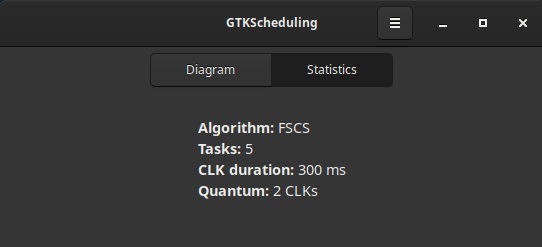
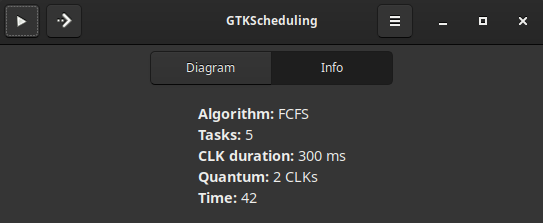
add info to first screen; inital window size based on the number of tasks; change tab name to Info; update imgs

diff --git a/src/window.py b/src/window.py
@@ -38,11 +38,6 @@ class Window(Gtk.Window):
                 self.pixbuf = None
                 print(f'Failed to load icon from "{icon_path}"')
 
-        # Window dimensions
-        self.set_size_request(600, 300)
-        self.set_resizable(True)
-        self.set_border_width(6)
-
         # Vertical Box
         outerbox = Gtk.Box(orientation=Gtk.Orientation.VERTICAL, spacing=6)
         self.add(outerbox)
@@ -95,25 +90,31 @@ class Window(Gtk.Window):
         self.scale_rect = 10
         self.rect_line_x0 = 20 + self.scale_rect  # initial x
         self.rect_line_y0 = 20  # initial y
-        self.rect_height = 10  # bar height
+        self.rect_height = 10  # task rect height
         self.rect_lines_dist = self.rect_height + 2  # distance between lines
         self.rect_dist = 0  #1  # distance between 2 bars
         self.rect_offset = self.rect_line_x0  # initial offset that will be incremented with time (+= 1*scale_rect)
+
+        # Window dimensions
+        self.set_size_request(600, self.rect_lines_dist*len(self.list_tasks) + 220)
+        self.set_resizable(True)
+        self.set_border_width(6)
 
         self.list_rect_progress_bar = []
 
         # Bars Tab
         self.drawingarea_progress_bar = Gtk.DrawingArea()
-        self.drawingarea_progress_bar.connect("draw", self._on_draw_text)
+        self.drawingarea_progress_bar.connect("draw", self._on_draw_task_lines_text)
         self.drawingarea_progress_bar.connect("draw", self._on_draw_progress_bar)
+        self.drawingarea_progress_bar.connect("draw", self._on_draw_info)
         self.drawingarea_progress_bar.connect("button-press-event", self._on_click_task_rect)
         self.drawingarea_progress_bar.set_events(Gdk.EventMask.BUTTON_PRESS_MASK)
         stack.add_titled(self.drawingarea_progress_bar, "diagram", "Diagram")
 
-        # Stats Tab
-        self.label_stats = Gtk.Label()
-        self._refresh_stats_label()
-        stack.add_titled(self.label_stats, "stats", "Statistics")
+        # Info Tab
+        self.label_info = Gtk.Label()
+        self.refresh_info_label()
+        stack.add_titled(self.label_info, "info", "Info")
 
         # Task Popover
         self.popover_task = Gtk.Popover()
@@ -177,7 +178,7 @@ class Window(Gtk.Window):
         about = Gtk.AboutDialog(transient_for=self, modal=True)
 
         about.set_program_name("GTKScheduling")
-        about.set_version("0.1.0")
+        about.set_version("0.2.0")
         about.set_comments("CPU scheduling simulator")
         about.set_website("https://github.com/omarelladen/GTKScheduling")
         about.set_website_label("Repository")
@@ -191,14 +192,13 @@ class Window(Gtk.Window):
         about.connect("response", lambda dialog, response: dialog.destroy())
         about.present()
 
-    def _on_draw_text(self, widget, cr: cairo.Context):
+    def _on_draw_task_lines_text(self, widget, cr: cairo.Context):
         cr.set_source_rgb(1, 1, 1)
         cr.set_font_size(10)
 
         for task_num, _ in enumerate(self.list_tasks, 1):
             # Calculate position - offset for single-digit task numbers
-            num_pos = 0 if task_num >= 10 else self.rect_line_x0 / 4
-            x_pos = num_pos
+            x_pos = 0 if task_num >= 10 else self.rect_line_x0 / 4
             y_pos = self.rect_line_y0 + self.rect_lines_dist * (task_num - 1) + self.rect_height - 2
 
             # Draw the task line label
@@ -209,15 +209,37 @@ class Window(Gtk.Window):
         for rect in self.list_rect_progress_bar:
             cr.set_source_rgb(*rect.color)
             cr.rectangle(rect.x, rect.y, rect.width, rect.height)
-
             cr.fill()
 
+    def _on_draw_info(self, widget, cr: cairo.Context):
+        cr.set_source_rgb(1, 1, 1)
+        cr.set_font_size(10)
+
+        y = self.rect_line_y0 + self.rect_lines_dist * len(self.list_tasks) + 30
+        x_offset = self.rect_line_x0
+        spacing = 50
+
+        texts = [
+            f"Algorithm: {self.app.scheduler.alg_scheduling}",
+            f"CLK duration: {self.app.timer.interval_ms} ms",
+            f"Quantum: {self.app.scheduler.quantum}",
+            f"Time: {self.app.scheduler.time}",
+        ]
+
+        for text in texts:
+            cr.move_to(x_offset, y)
+            cr.show_text(text)
+            
+            extents = cr.text_extents(text)
+            x_offset += extents.width + spacing
+                                   
     def _show_task_popover(self, rect, widget, event):
         self.label_task.set_markup(f"<b>id:</b> {rect.task_record.task.id}\n"
                                    f"<b>start time:</b> {rect.task_record.task.start_time}\n"
                                    f"<b>duration:</b> {rect.task_record.task.duration}\n"
                                    f"<b>priority:</b> {rect.task_record.task.priority}\n"
-                                   f"<b>progress:</b> {rect.task_record.progress}")
+                                   f"<b>progress:</b> {rect.task_record.progress}\n"
+        )
         e_x = event.x
         e_y = event.y
 
@@ -231,15 +253,16 @@ class Window(Gtk.Window):
         self.cursor_y_at_popover = e_y
         self.is_popover_task_active = True
             
-    def _refresh_stats_label(self):
-        self.label_stats.set_markup(
+    def refresh_info_label(self):
+        self.label_info.set_markup(
             f"<big><b>Algorithm:</b> {self.app.scheduler.alg_scheduling}</big>\n"
             f"<big><b>Tasks:</b> {len(self.list_tasks)}</big>\n"
             f"<big><b>CLK duration:</b> {self.app.timer.interval_ms} ms</big>\n"
             f"<big><b>Quantum:</b> {self.app.scheduler.quantum} CLKs</big>\n"
+            f"<big><b>Time:</b> {self.app.scheduler.time}</big>"
         )
      
-    def update_rect_time(self, current_task):
+    def draw_new_rect(self, current_task):
         # Create Task Rectangles
         task_num = current_task.id
         length = 1 * self.scale_rect

diff --git a/src/app.py b/src/app.py
@@ -32,5 +32,6 @@ class App():
 
     def tick(self):
         self.scheduler.update_current_task()
-        self.win.update_rect_time(self.scheduler.current_task)
+        self.win.draw_new_rect(self.scheduler.current_task)
+        self.win.refresh_info_label()
         self.scheduler.execute()
